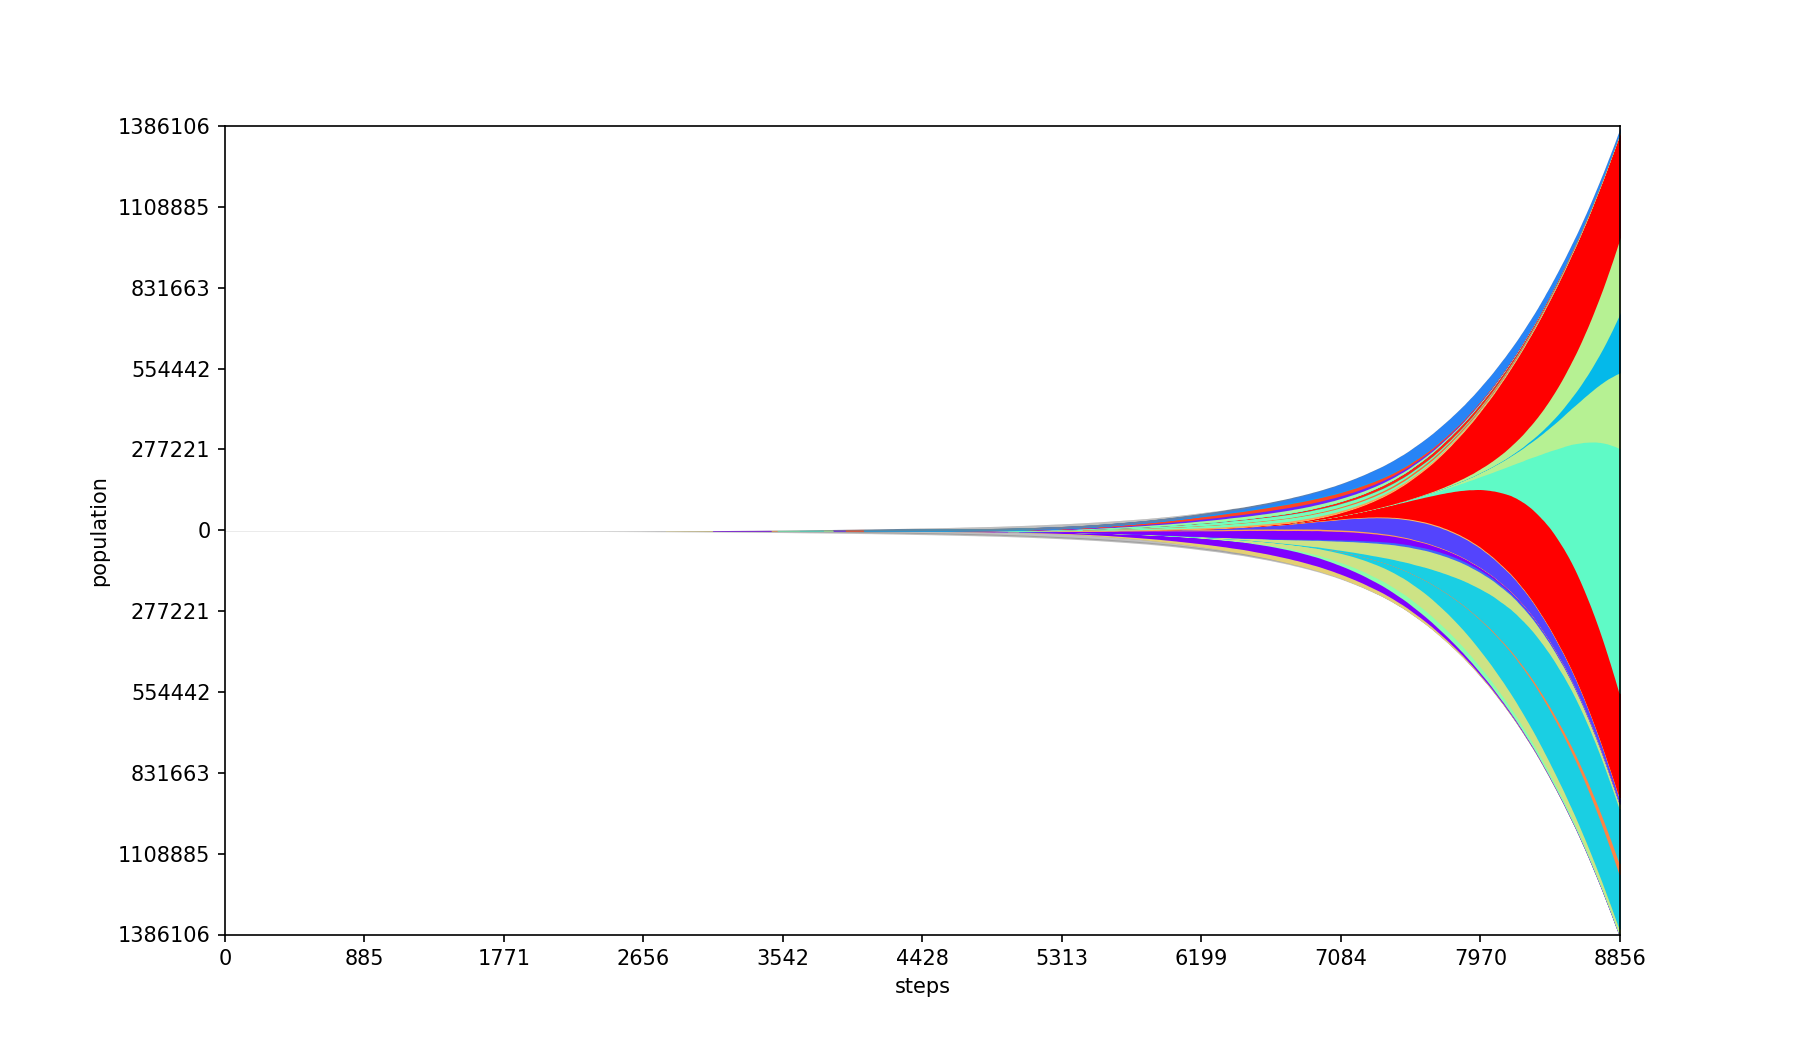
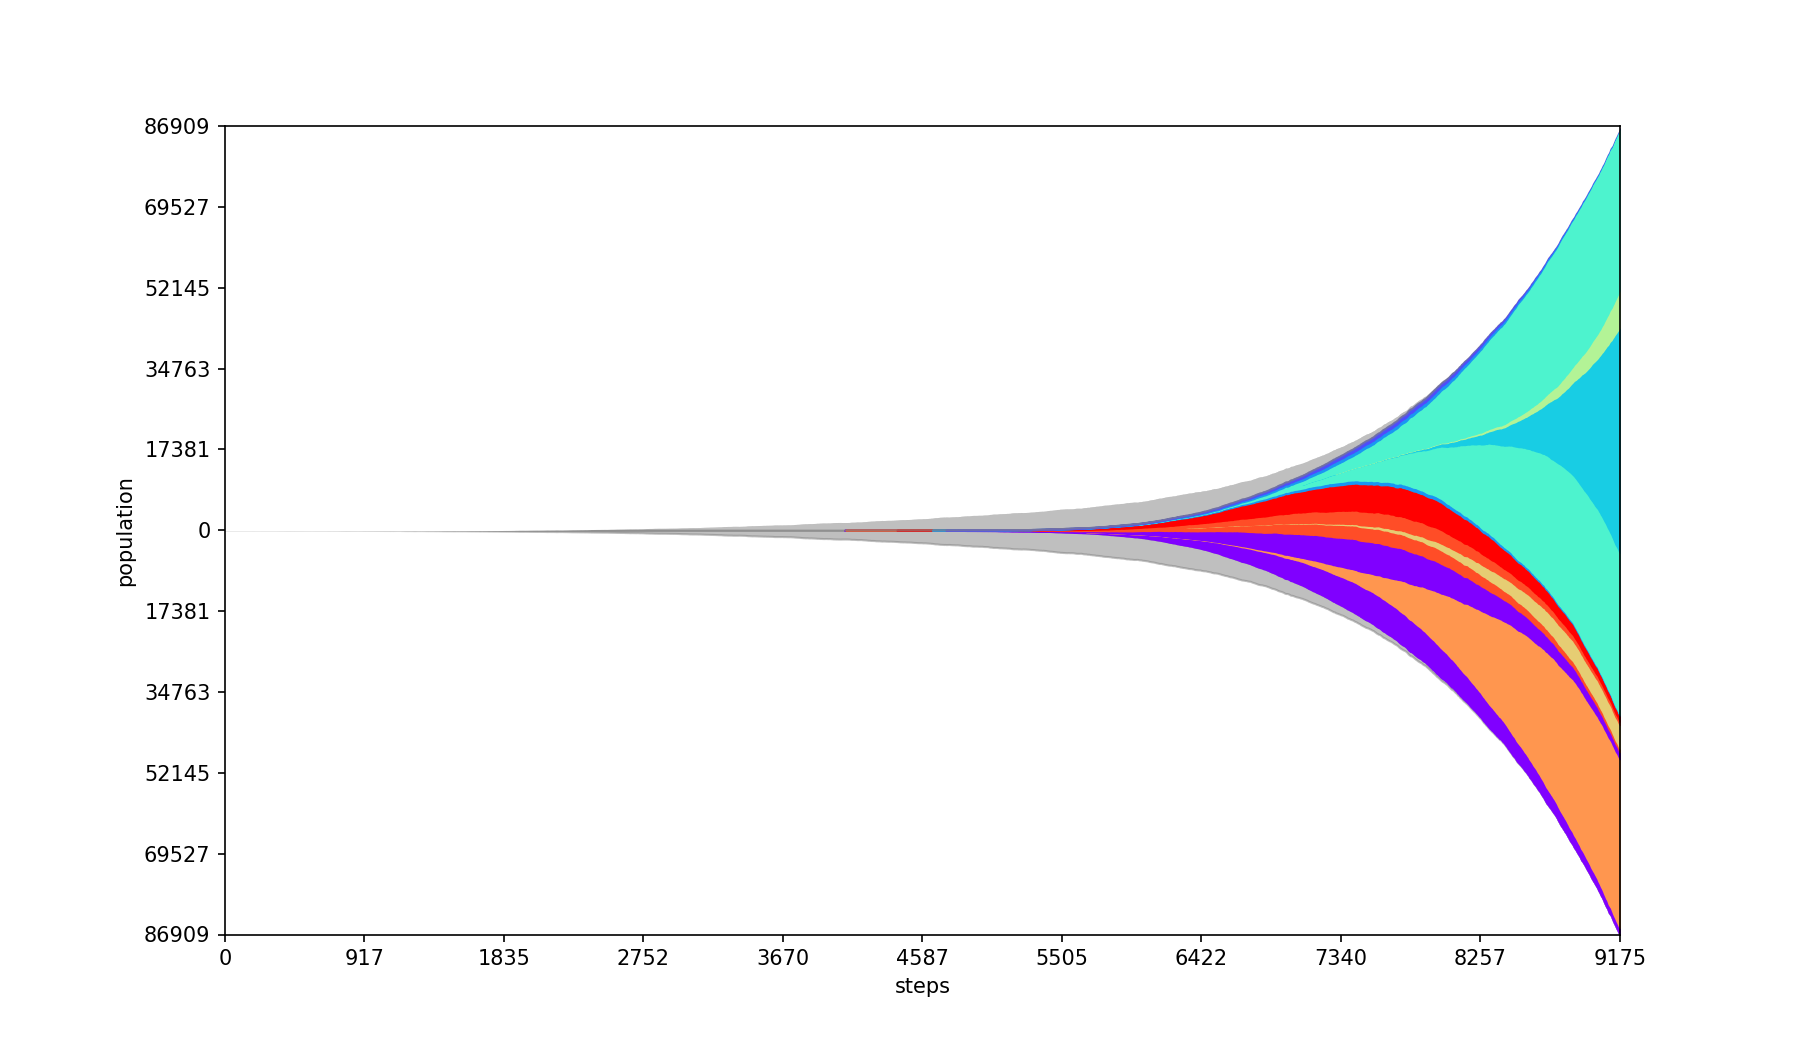
Corrected signed int on max tries

diff --git a/DataTypes/SimParams.cs b/DataTypes/SimParams.cs
@@ -13,7 +13,7 @@ public struct SimParams
 
     // Experiment
     public long MaxPop; // Stop when this population is reached, can be negative to disable
-    public uint MaxSteps; // Stop when this many simulation steps are reached, can be negative to disable
+    public int MaxSteps; // Stop when this many simulation steps are reached, can be negative to disable
     public int MaxClones; // Stop when this many clones are found, can be negative to disable
     public uint MinPop; // If the sample size of MinPop is not reach, simulation restarts
     public int MaxTries; // Maximum number of tries. Note that this will cause incomplete results.

diff --git a/Computation/State.cs b/Computation/State.cs
@@ -7,7 +7,6 @@ namespace SimChA.Computation;
 
 public class State
 {
-    public static int maxTries = 10_000;
     public static ComputeState GetCompState(PopState state, Simulator simulator, SimParams simParams)
     {
         if (simulator.StepNo >= simParams.MaxSteps && simParams.MaxSteps > 0)
